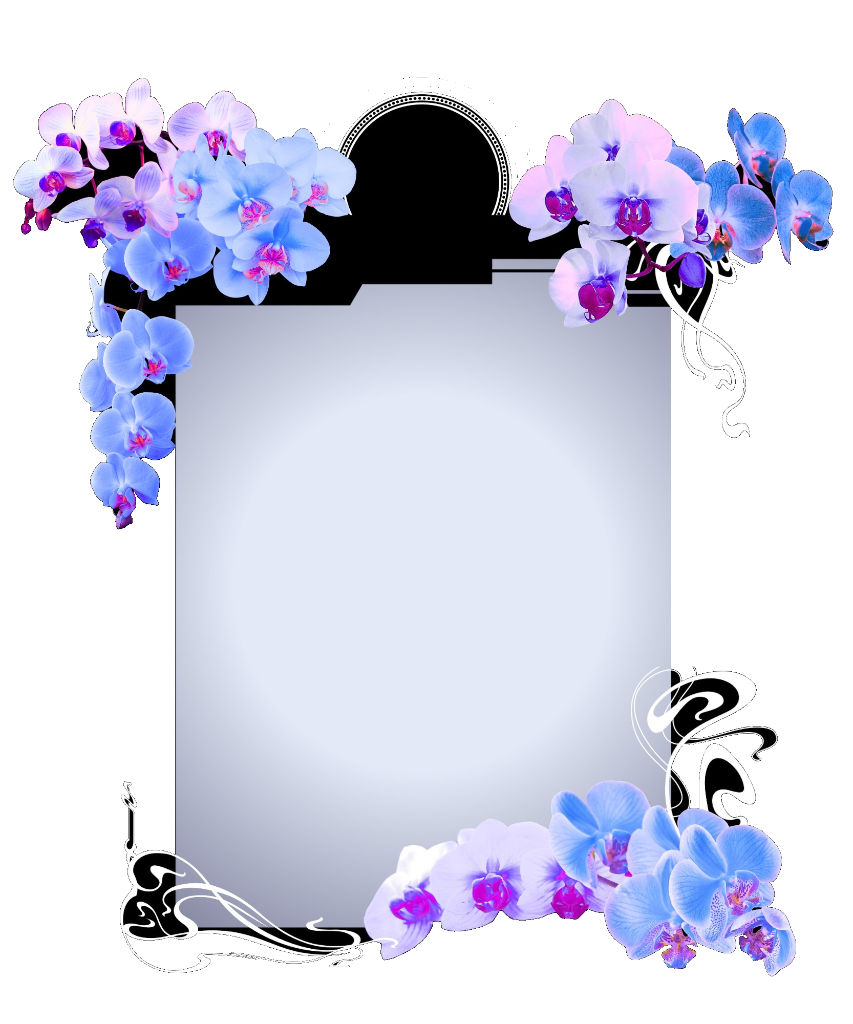
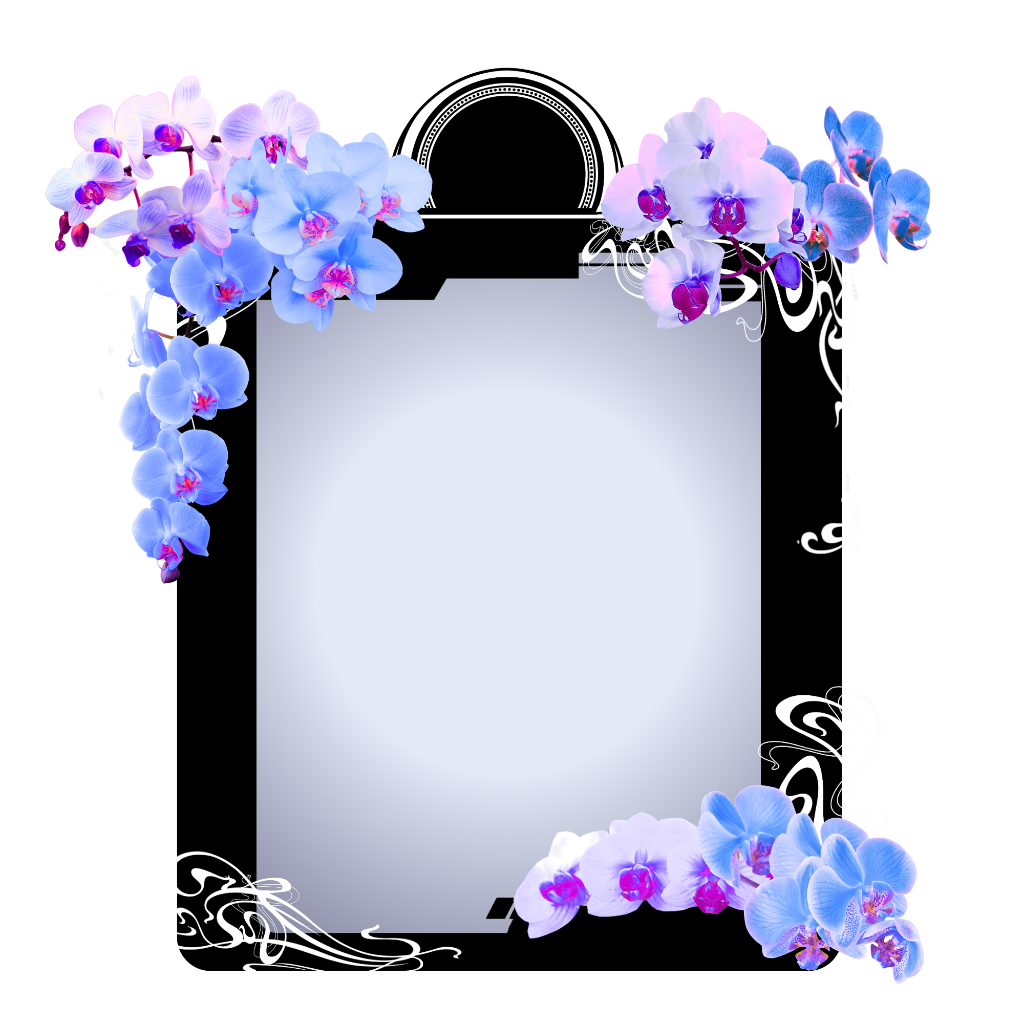
feat: Implement initial application UI, including orchid frame, window controls, writing zone, and clock display.

Changed region(s): [[0.0, 0.0625, 0.9754, 0.9688]]

diff --git a/src/App.css b/src/App.css
@@ -14,14 +14,14 @@
   --scrollbar:     rgba(180, 140, 220, 0.2);
 
   /* Writing zone geometry — relative mapping to track resize events securely */
-  --zone-top:    28.6%;
-  --zone-left:   13.8%;
-  --zone-width:  74%;
-  --zone-height: 54.4%;
+  --zone-top:    25%;
+  --zone-left:   18%;
+  --zone-width:  64%;
+  --zone-height: 65%;
 
   /* Window controls position */
-  --ctrl-top:  6%;
-  --ctrl-right: 7%;
+  --ctrl-top:  4%;
+  --ctrl-right: 5%;
 }
 
 /* ── Reset ── */

diff --git a/src/components/ClockDisplay.module.css b/src/components/ClockDisplay.module.css
@@ -1,9 +1,9 @@
 .clockDisplay {
   position: absolute;
-  top: 3.5%;
+  top: 15%;
   left: 50%;
   transform: translateX(-50%);
-  width: 110px;
+  width: 120px;
   text-align: center;
   z-index: 20;
   pointer-events: none;
